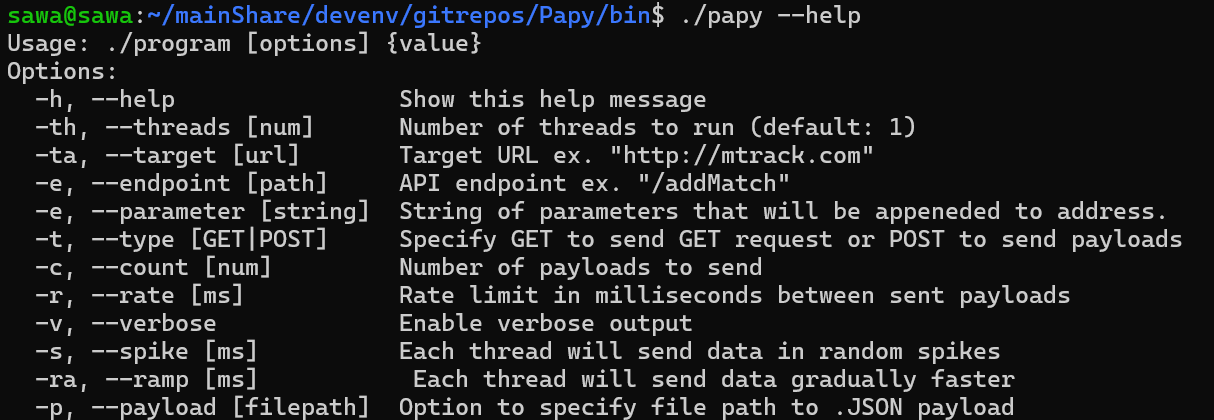
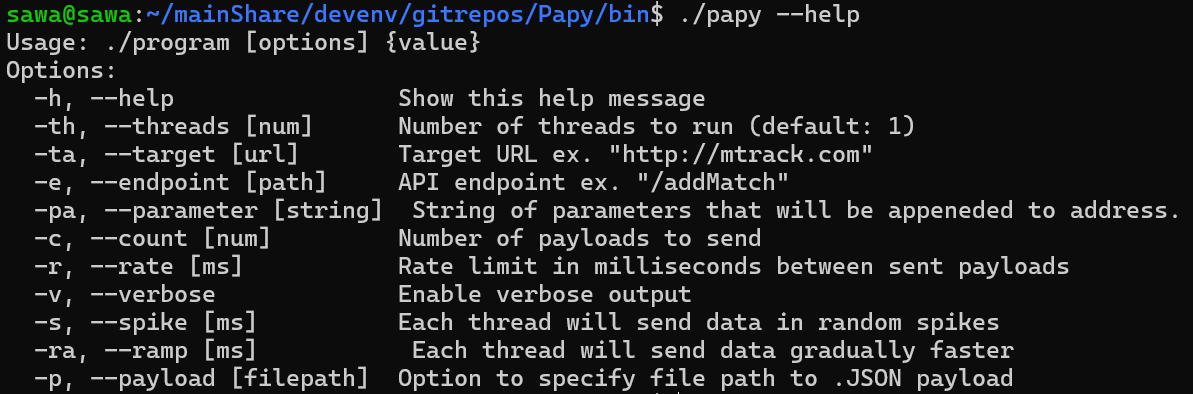
read

Changed region(s): [[0.0, 0.0, 0.9925, 1.0]]

diff --git a/src/utilities.cpp b/src/utilities.cpp
@@ -120,8 +120,7 @@ void cliHelper::displayHelp() {
             << "  -th, --threads [num]      Number of threads to run (default: 1)\n"
             << "  -ta, --target [url]       Target URL ex. \"http://mtrack.com\"\n"
             << "  -e, --endpoint [path]     API endpoint ex. \"/addMatch\"\n"
-            << "  -e, --parameter [string]  String of parameters that will be appeneded to address.\n"
-            << "  -t, --type [GET|POST]     Specify GET to send GET request or POST to send payloads\n"
+            << "  -pa, --parameter [string]  String of parameters that will be appeneded to address.\n"
             << "  -c, --count [num]         Number of payloads to send\n"
             << "  -r, --rate [ms]           Rate limit in milliseconds between sent payloads\n"
             << "  -v, --verbose             Enable verbose output\n"

diff --git a/docs/userDocumentation.md b/docs/userDocumentation.md
@@ -126,36 +126,79 @@ The following is an example of me testing the database of a locally deployed web
 ---
 
 ## User Interface 
-Since this was designed to be simple as well as a Command Line Interface tool the UI follows this paradigm.
+Since this was designed to be simple as well as a Command Line Interface tool the UI follows this paradigm. You can see the UI information of Papy with any exeuction of the Papy command like:
+```bash
+./papy [Flag] {Value} [Flag] {Value} [Flag] {Value} ...
+```
 ![Papy User Interface](documentationImages/papyUI.png "Papy User Interface")
 
 ---
 
-## Features and Functionality
-- **Core Features**: Explain primary capabilities with examples.
-- **How-To Guides**:
-  - Task 1: [Guide for Task 1]
-  - Task 2: [Guide for Task 2]
-- Include screenshots or diagrams where applicable.
+## Notable Command Line Arguments
+
+### --threads [num]
+This parameter lets you specify the amount of CPU threads you want to use for the programs execution. The more you add the more concurrent requests will be sent. If you try to assign more threads that you have physically then the speed will not necessarily increase due to the CPU having to switch between the active tasks anyways so there is no real point to assigning more threads that you physically have on your CPU. Faster threads however do assist in the speed of requests per thread.
+
+### --target [url]
+Assigns the url of the target. Should be in the format `http://www.mtrack.com`. Specifically the `http://` or `https://` portion of the address must be included. This is because this is how Papy determines which protocols to use to send the requests. 
+
+### --endpoint [path]
+Specifies the endpoint of the specific server. This endpoint string gets appended to the target address. So if you want to query the target `https://www.mtrack.com` and the endpoint `/addMatch` you can use the command:
+```bash
+./papy --threads 1 --target "https://www.mtrack.com" --endpoint "/addMatch"
+```
+
+### --parameter [string]
+The `--parameter` flag lets you specify end of URL paramaters. For example, the following Papy command will yield the final url of `https://www.mtrack.com/addMatch?variable=BOB`.
+```bash
+./papy --threads 1 --target "https://www.mtrack.com" --endpoint "/addMatch" --parameter "?variable=BOB"
+```
+
+### --count [num]
+This parameter will let you specify the amount of payloads that each thread will launch. If you have a single thread and specify `--count` to be 10 then Papy will launch 10 requests. If you however have `--threads` set to 4 and you have `--count` set to 10 it will launch 40 requests. The count number is FOR EACH THREAD.  
+
+### --rate [ms]
+`--rate` specifies the delay in milliseconds between payloads being sent out. If you specify `--rate 2000` then there will be a 2 secon delay between each set of packets being sent out. Once again if you have the threadcount set to 4 and a delay of 2000 then 4 packets will be sent out every 2 seconds. The delay is also per thread.
+
+
+### --verbose
+This flag has no parameter. If it is present in the command line arguments it will enable verbose output. It will show you the response of each request being sent out. Without this flag all you will see in terms of the responses of the requests is the main statistics line for Papy.
+```
+Total Sent: 36 | Successful: 36 | Failed: 0 | Packets/s: 1 | Elapsed Time: 70099
+```
+
+### --spike [ms]
+This flag lets you specify a "spike" time. What happens is that whatever delay in ms you set for this flag will be used to calculate when the payloads will be sent out. Each request will be sent out at a random delay between zero and the number that you set. This makes the traffic much more chaotic and similar to real world situations.
+
+### --ramp [ms]
+This flag lets you specify test a ramping simulation. The traffic will have a delay of the one you set for the `--ramp` flag and then get halved each time a payload is sent. It will ramp faster and faster until it runs at the max speed capable of your hardware.
+
+### --payload [num]
+This is where a good amount of the meat of the functionality is. Depending on the payload that you set you will have behavior vary drastically. At the moment there are 4 main operating modes:
+- No payload
+- `lol`
+- `ocean`
+- `{filepath}`
+  - ex. `./home/jsonFiles/bob.json`
+
+If no payload is set then Papy will send GET requests to the specified address and endpoint.
+
+If `lol` is set then it will generate a custom pseudo-random payload based off the specifications in a custom class. 
+
+If `ocean` is set then it will generate a custom pseudo-random payload based off the specifications in a custom class.
+
+If a file path is specified then Papy will look for a JSON file and parse it. That parsed JSON will then be used as a body for the payload.
+
 
 ---
 
-## FAQs and Troubleshooting
-- **Frequently Asked Questions**:
-  - *Question 1*: Answer.
-  - *Question 2*: Answer.
-- **Troubleshooting**:
-  - Problem: Steps to resolve.
-- **Support**: Contact information for further assistance.
+## Ask The Dev
+For questions or requests you can contact me on LinkedIn or my email.
+All contact information is listed on my profile.
 
 ---
 
-## Best Practices
-- Tips for using the software effectively.
-- Recommended workflows or configurations.
-
----
-
-## Glossary
-- **Term 1**: Definition.
-- **Term 2**: Definition.
+## Disclaimer
+- PLEASE DO NOT USE THIS FOR MALICIOUS PURPOSES
+- GET PERMISSION FROM THE OWNER OF RESOURCES YOU WILL USE THIS TOOL AGAINST
+- I TAKE NO RESPONSIBILITY FOR THE ACTIONS OF USERS OF THIS APPLICATION
